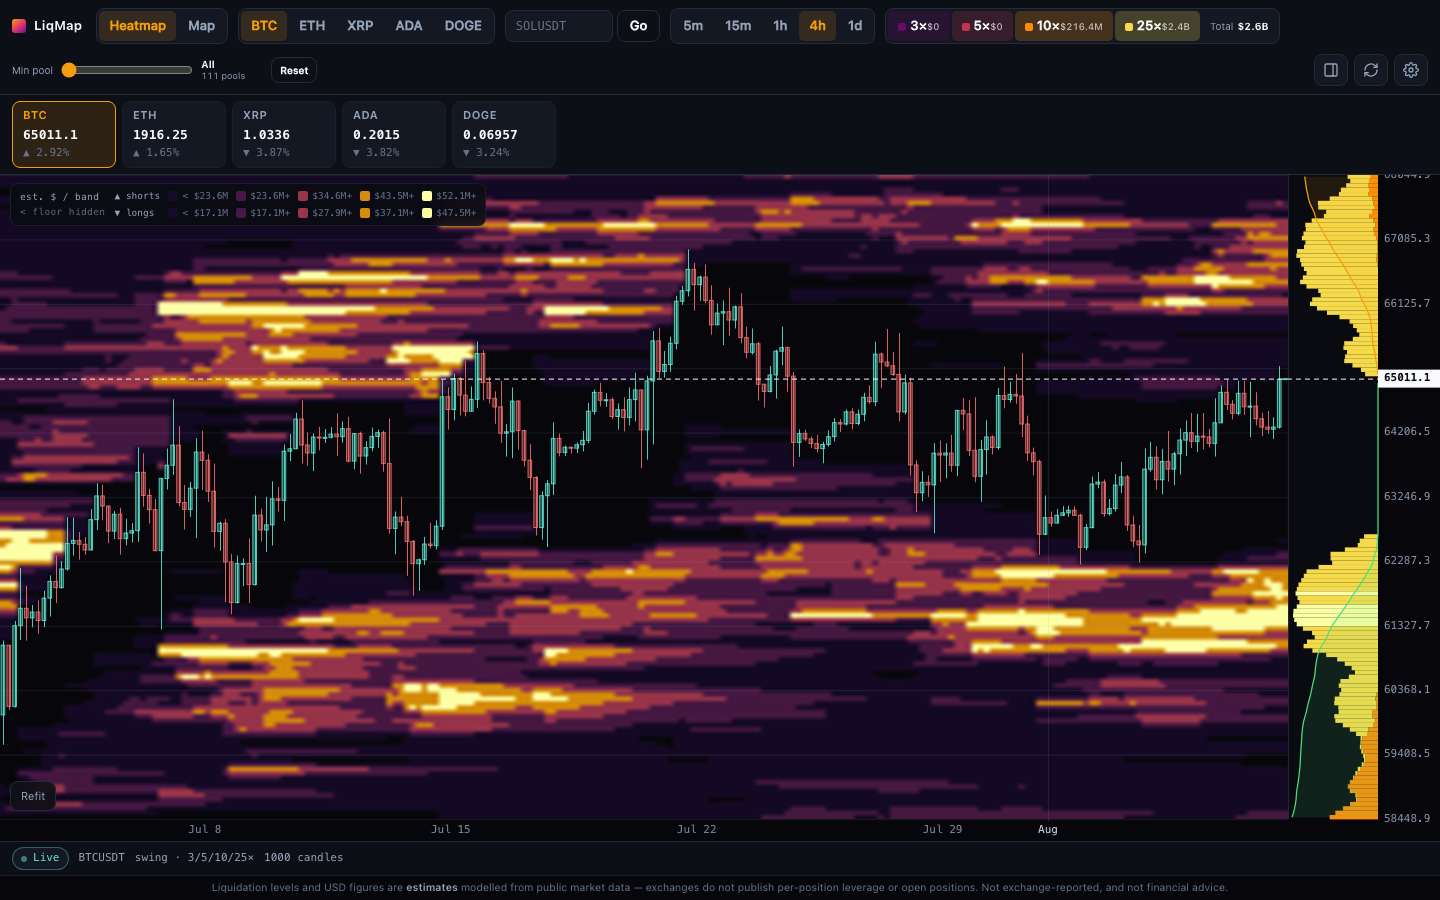
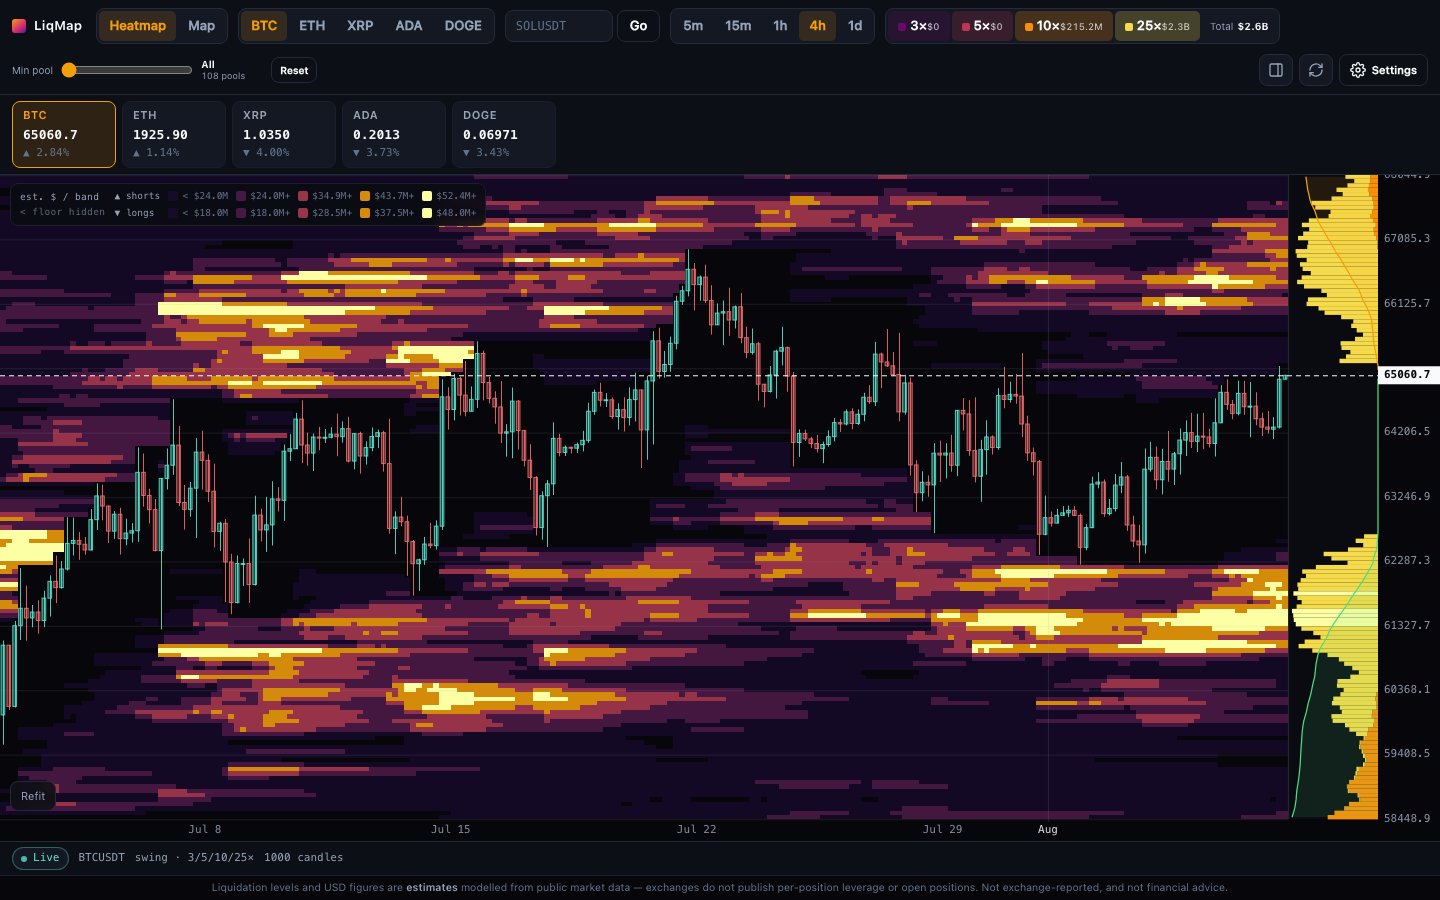
docs: settings versioning + crisp constant; correct the diagnostic verdict
The diagnostic called a crisp render 'SMOOTH' because it thresholded blur
share, which has a ~5% floor from semi-transparent candle bodies drawn over
the heat. Distinct alpha count is the unambiguous signal — the palette has
exactly five and interpolation cannot produce only five.

diff --git a/README.md b/README.md
@@ -186,12 +186,25 @@ naturally to one bucket per row. Before this, one source pixel per bucket meant 
 nearest-neighbour sampling silently discarded every bucket that didn't land on an output
 row — levels flickered with zoom and the chart read as 1px static. The side panel is built
 on the same row grid, so bars are exactly as tall as the bands they describe. A "Smooth
-rendering" toggle (default **off**) softens band edges on the upscale. Measured live at
-BTCUSDT 4h, smoothing on left 57.3% of heat pixels interpolated rather than palette colours,
-**zero** hard class edges anywhere in the plot, and the five designed alphas spread across
-199 distinct values — soft, glowy, and with no definite band position, which also reads as
-misalignment. Off measures 2.9% interpolated, 15,501 hard edges, exactly the five alphas.
-Display only — tooltips read the raw buckets either way.
+The heat is **never** interpolated: `imageSmoothingEnabled = false` is a constant, not a
+preference. Measured live at BTCUSDT 4h, smoothing on left 57.3% of heat pixels interpolated
+rather than palette colours, **zero** hard class edges anywhere in the plot, and the five
+designed alphas spread across 199 distinct values — soft, glowy, and with no definite band
+position, which also reads as misalignment. Crisp measures exactly five alphas.
+
+Display rows have a **1px** floor. They exist to stop buckets being dropped by resampling —
+which is what the sum aggregation fixes — not to fatten bands; a 3px floor merged
+neighbouring levels into blocks and cost the per-candle structure the chart is read for.
+
+### Settings that cannot strand you
+
+Persisted settings are **versioned** (`SETTINGS_VERSION`). A plain merge of stored-over-
+defaults means the first value a user ever received wins forever, so a corrected default
+can never reach them — that is exactly how a build shipping `smoothRendering: true` kept
+rendering smooth long after the default became `false`. On load, `migrateSettings` drops
+keys the app no longer owns, fills in keys added since, and on a version bump resets model
+and render settings to shipped while carrying personal alert preferences forward. The build
+ID and a **Reset to defaults** control sit at the top of the Settings panel.
 
 ### Minimum-pool threshold
 
